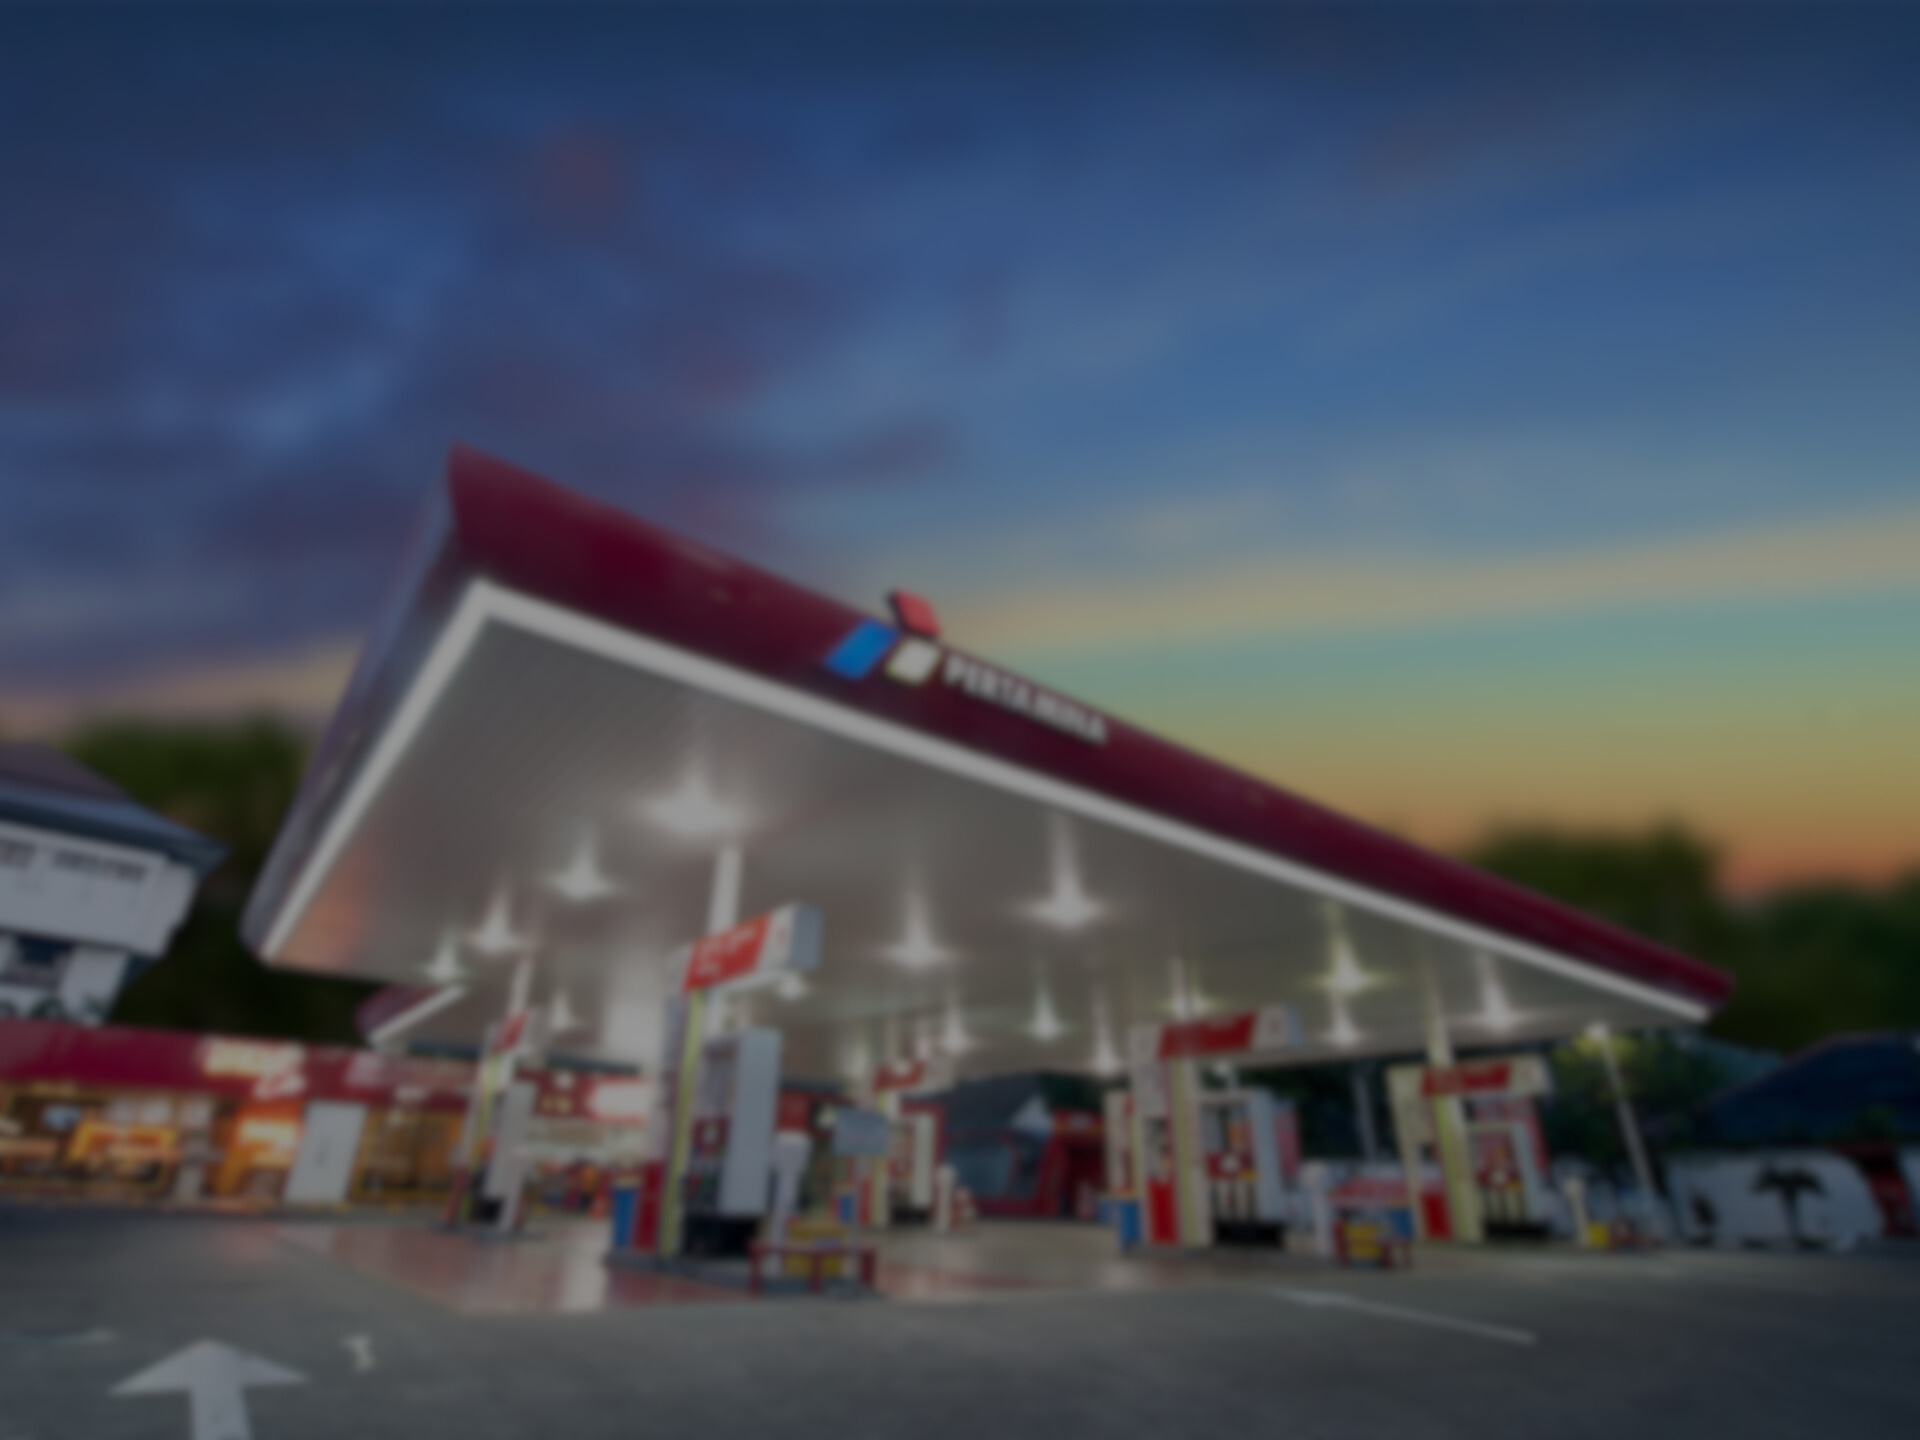
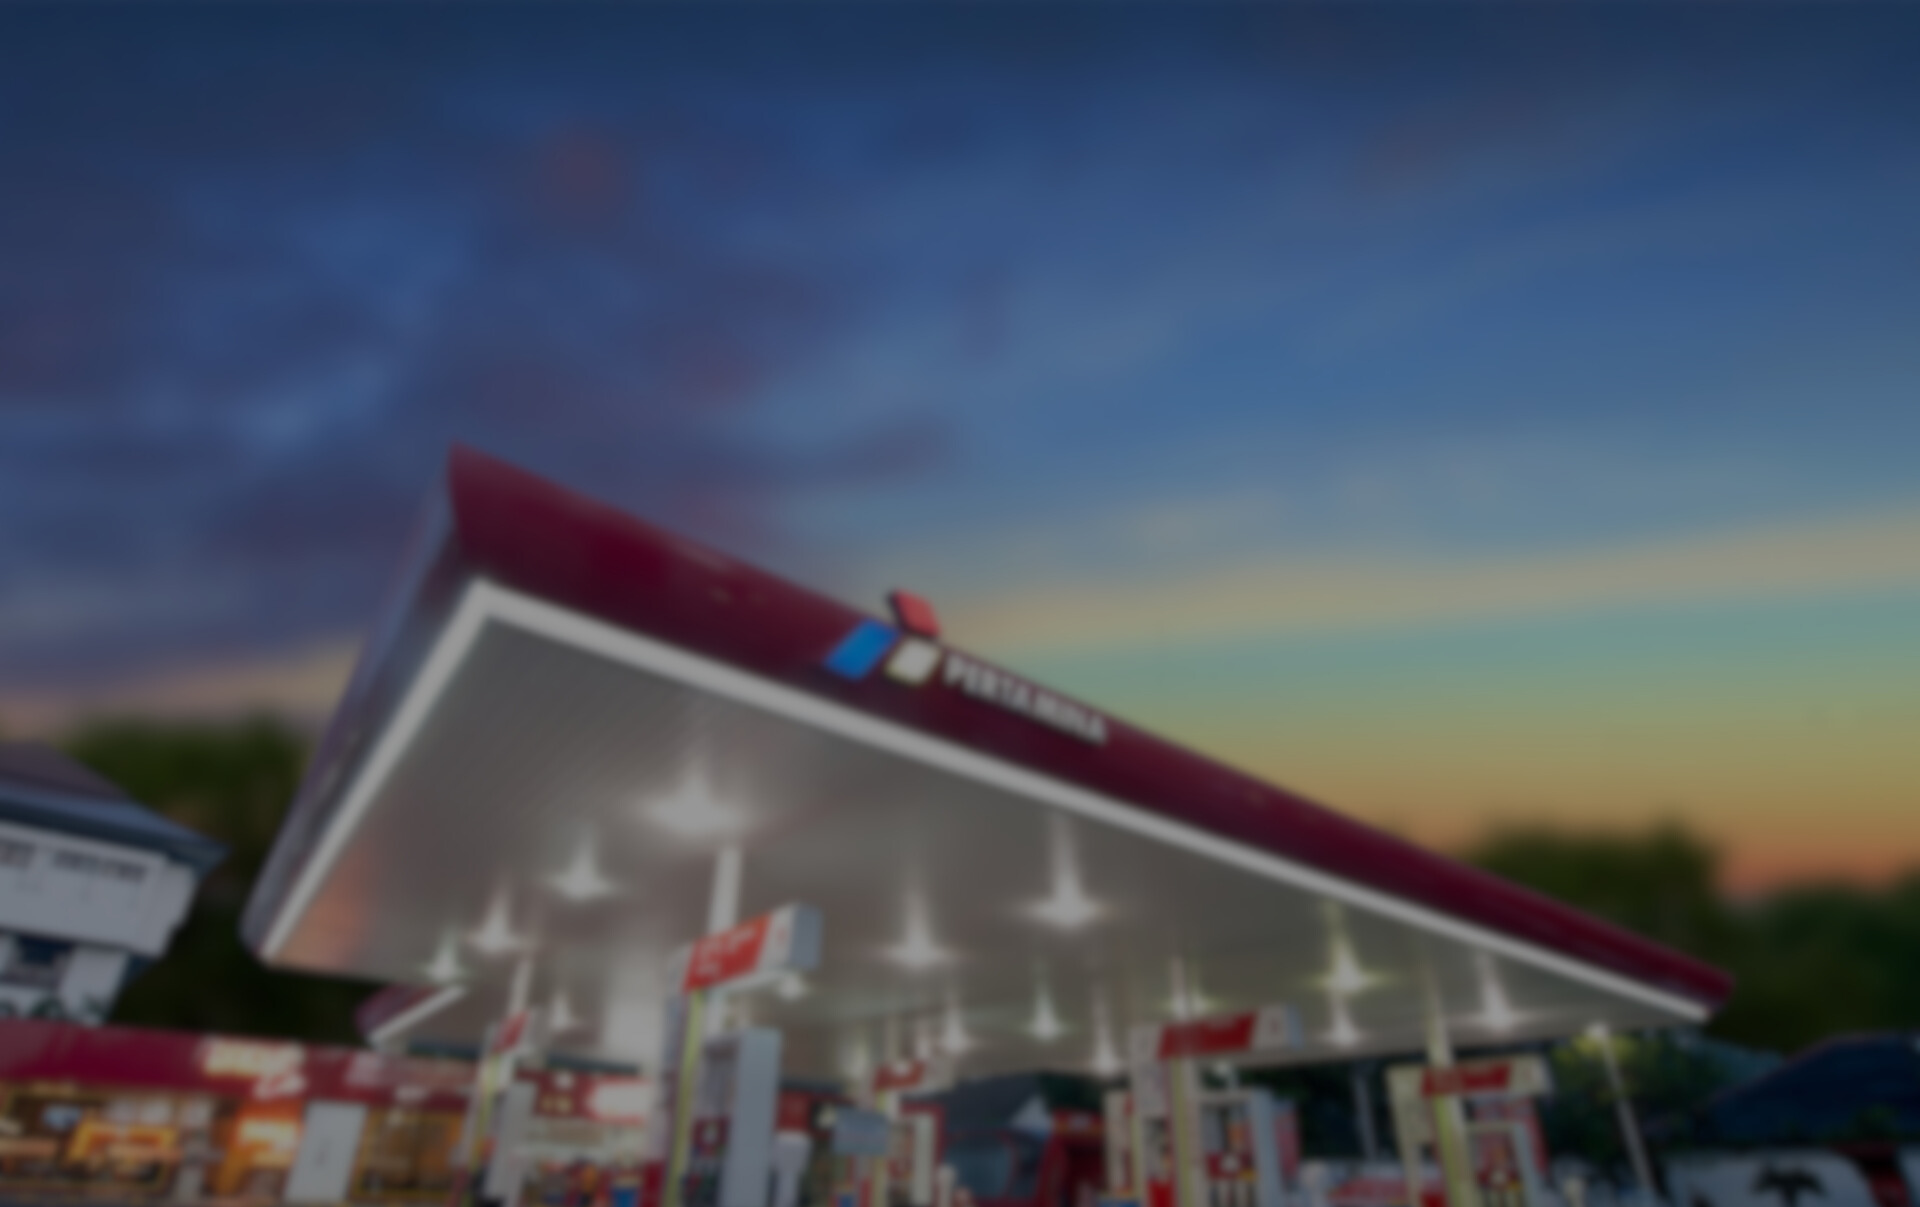
asdasdasd

diff --git a/src/components/AboutUs/story.jsx b/src/components/AboutUs/story.jsx
@@ -20,7 +20,7 @@ const AboutUs = () => {
 
     return (
         <div className="pt-24 lg:pt-48 md:pt-40">
-            <div className="bg-cover bg-center bg-no-repeat bg-black bg-opacity-20 w-full flex flex-col justify-center h-[800px] "
+            <div className="bg-cover bg-top  bg-no-repeat bg-black bg-opacity-20 w-full flex flex-col justify-center h-[800px] "
                         style={{
                             backgroundImage: `url(${Bg})`,
                             backgroundBlendMode: 'overlay'
